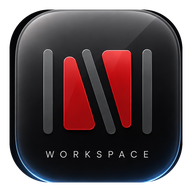
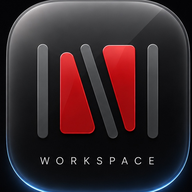
g

diff --git a/sw.js b/sw.js
@@ -1,4 +1,4 @@
-const CACHE='dvs-v-10-gold-master-07-2026';
+const CACHE='dvs-v-10-gold-master-07-2026-icon-fix';
 const ASSETS=[
   './',
   './index.html',
@@ -12,7 +12,7 @@ const ASSETS=[
   './assets/apple-touch-icon.png',
   './assets/workspace-icon-192.png',
   './assets/workspace-icon-512.png',
-  './manifest.webmanifest?v=10-gold-master-07-2026',
+  './manifest.webmanifest?v=10-gold-master-07-2026-icon-fix',
   './manifest.json'
 ];
 

diff --git a/index.html b/index.html
@@ -1,5 +1,5 @@
 <!doctype html><html lang="it"><head>
-  <link rel="manifest" href="./manifest.webmanifest?v=10-gold-master-07-2026">
+  <link rel="manifest" href="./manifest.webmanifest?v=10-gold-master-07-2026-icon-fix">
   
   
 <meta charset="utf-8"><meta name="viewport" content="width=device-width,initial-scale=1,viewport-fit=cover"><meta name="theme-color" content="#0b0d11"><title>DVS Workspace</title>
